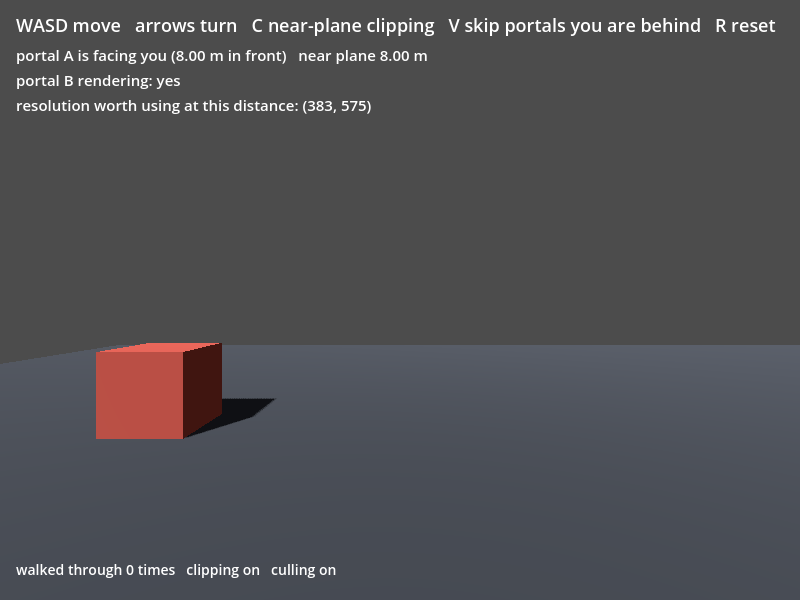
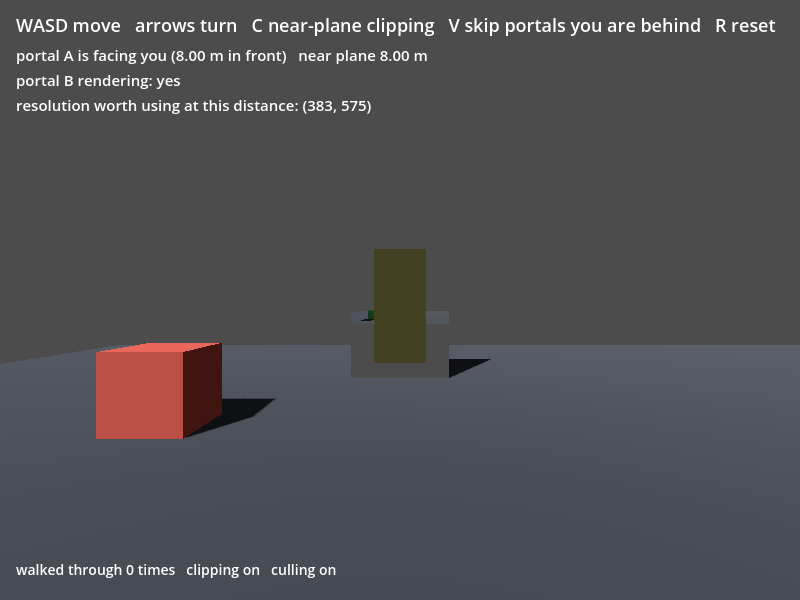
portal-3d: draw the portal on the side you are meant to look from
The portal was invisible from its own front. side_of() defines the front as the
portal's local -Z, and everything in the demo follows that: which way a crossing
sends you, whether the far view is worth rendering. A QuadMesh faces +Z, and
both surfaces were dropped in unrotated — so the one face the renderer draws was
the face on the side the maths calls the back, and backface culling then hid it
from the only side anyone stands on.

The result was a demo about seeing through a portal that rendered no portal at
all, while its own readout said "portal A is facing you (8.00 m in front)".
Every gate passed: no error, no warning, and the suite was checking the
transform arithmetic rather than anything you could see.

Turning the quads round rather than switching backface culling off, because the
two are not equivalent. A quad seen from behind draws its texture mirrored: with
culling off the portal appears and is quietly reversed, left for right. Checked
rather than reasoned — room B's box sits 7 m in -X from portal B, so looking
through portal A while facing -Z it has to appear on the left, and only the
rotated quad puts it there. An invisible portal is obvious; a mirrored one would
have sat there for years.

The suite now asserts the drawn face agrees with the front side_of() measures,
for both portals — confirmed by removing the rotation, where both fail.

Changed region(s): [[0.4375, 0.39, 0.5625, 0.63], [0.5625, 0.6, 0.625, 0.63]]

diff --git a/portal-3d/README.md b/portal-3d/README.md
@@ -45,6 +45,17 @@ the portal simply not working.
 is the line between a portal and a black rectangle, and there is no error to
 explain its absence.
 
+**The glass has to face the way the maths does.** `side_of()` calls the
+portal's local -Z the front, and everything follows it: which way you are sent,
+whether the view is worth rendering. A `QuadMesh` faces +Z. Drop one in
+unrotated and the single face the renderer draws is the one on the side the
+maths calls the back, so backface culling hides the portal from the only side
+you are ever meant to look from: the demo runs, the readout cheerfully says
+"portal A is facing you", and there is nothing there. Turning the quad round is
+the fix rather than switching culling off, because a quad seen from behind
+shows its texture mirrored — the portal would be visible and quietly wrong,
+left for right, which is a great deal harder to notice than an invisible one.
+
 **Do not draw a portal you are behind.** It costs an entire extra scene render
 to produce something nobody can see. Press V to turn the check off and watch the
 readout admit it.
